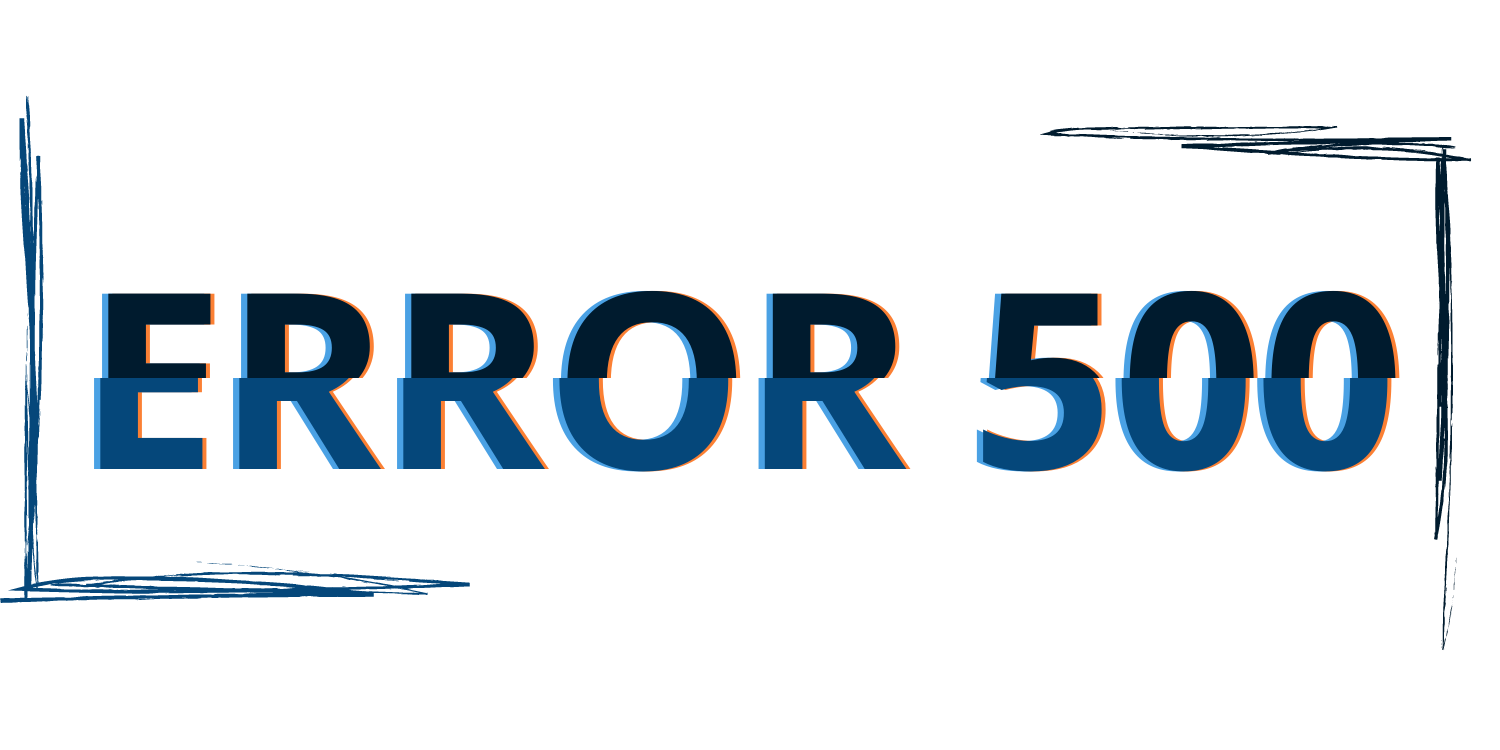
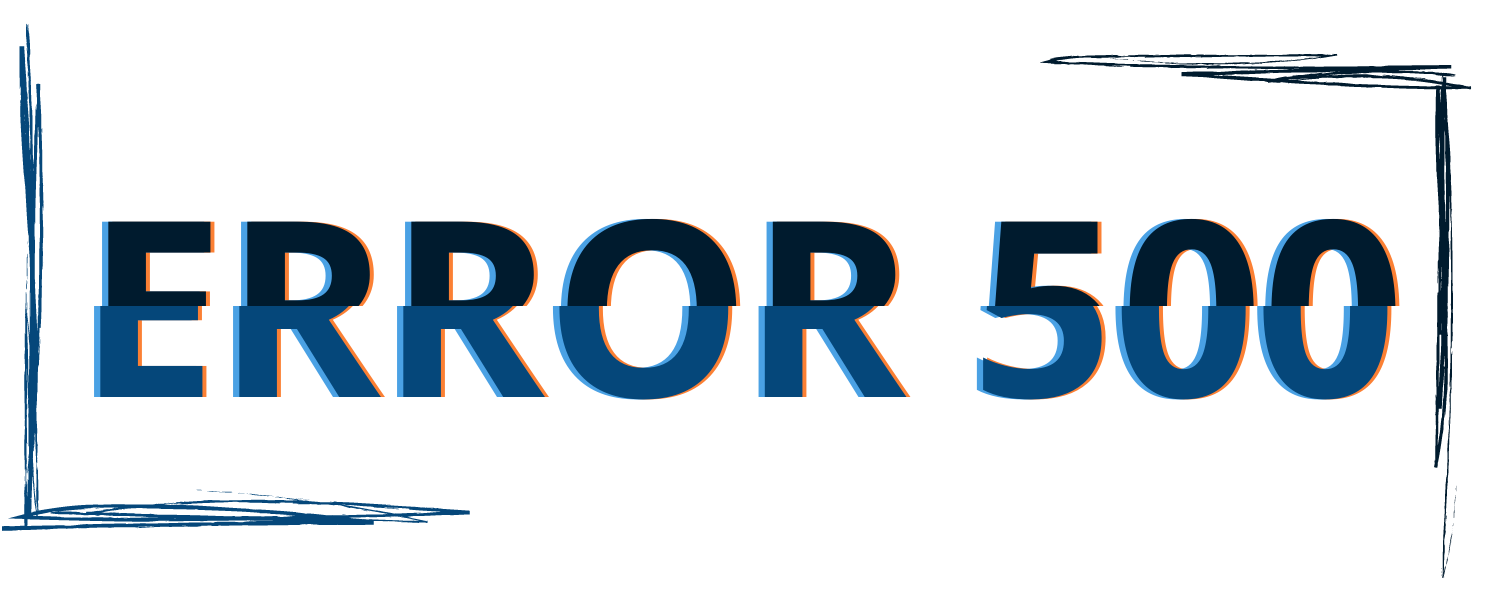
Cambios páginas de error (Responsive)

diff --git a/ErrorPages/Error404.html b/ErrorPages/Error404.html
@@ -28,9 +28,9 @@
 	</div>
 
 <div>
-  <div style="text-align:center; background-color:#C4CAD0">
-		<img src="../Imgs/Error404.png" height=300px alt="Pipa" style="padding:10px">
-				 <br>
+  <div style="text-align:center; background-color:#EFEFEF">
+		<img src="../Imgs/Error404.png" alt="Pipa" class="responsive">
+				 <br><br>
          <h5>La página que estás buscando no existe
            pero puedes dar click al botón de Inicio para regresar
            o buscar Ayuda.

diff --git a/ErrorPages/Error500.html b/ErrorPages/Error500.html
@@ -27,8 +27,8 @@
 	<img src="../Imgs/LogoAzulW.png" height=90px alt="Logo Ceralbi">
 	</div>
 <div>
-  <div style="text-align:center; background-color:#C4CAD0">
-		<img src="../Imgs/Error500.png" height=300px alt="Error 500">
+  <div style="text-align:center; background-color:#EFEFEF">
+		<img src="../Imgs/Error500.png" alt="Error 500" class="responsive">
          <h2>¡No eres tú, somos nosotros!</h2>
 				 <br>
          <h5>Tuvimos un error en el servidor

diff --git a/css/style.css b/css/style.css
@@ -773,6 +773,14 @@ ol {
 	-ms-transform: translateY(0%);
 	transform: translateY(0%);
 }
+/*------------------
+ Responsive Images
+ -------------------*/
+ .responsive {
+  width: 50%;
+  height: auto;
+	min-width:350px;
+}
 
 /*------------------
  About Us Images
